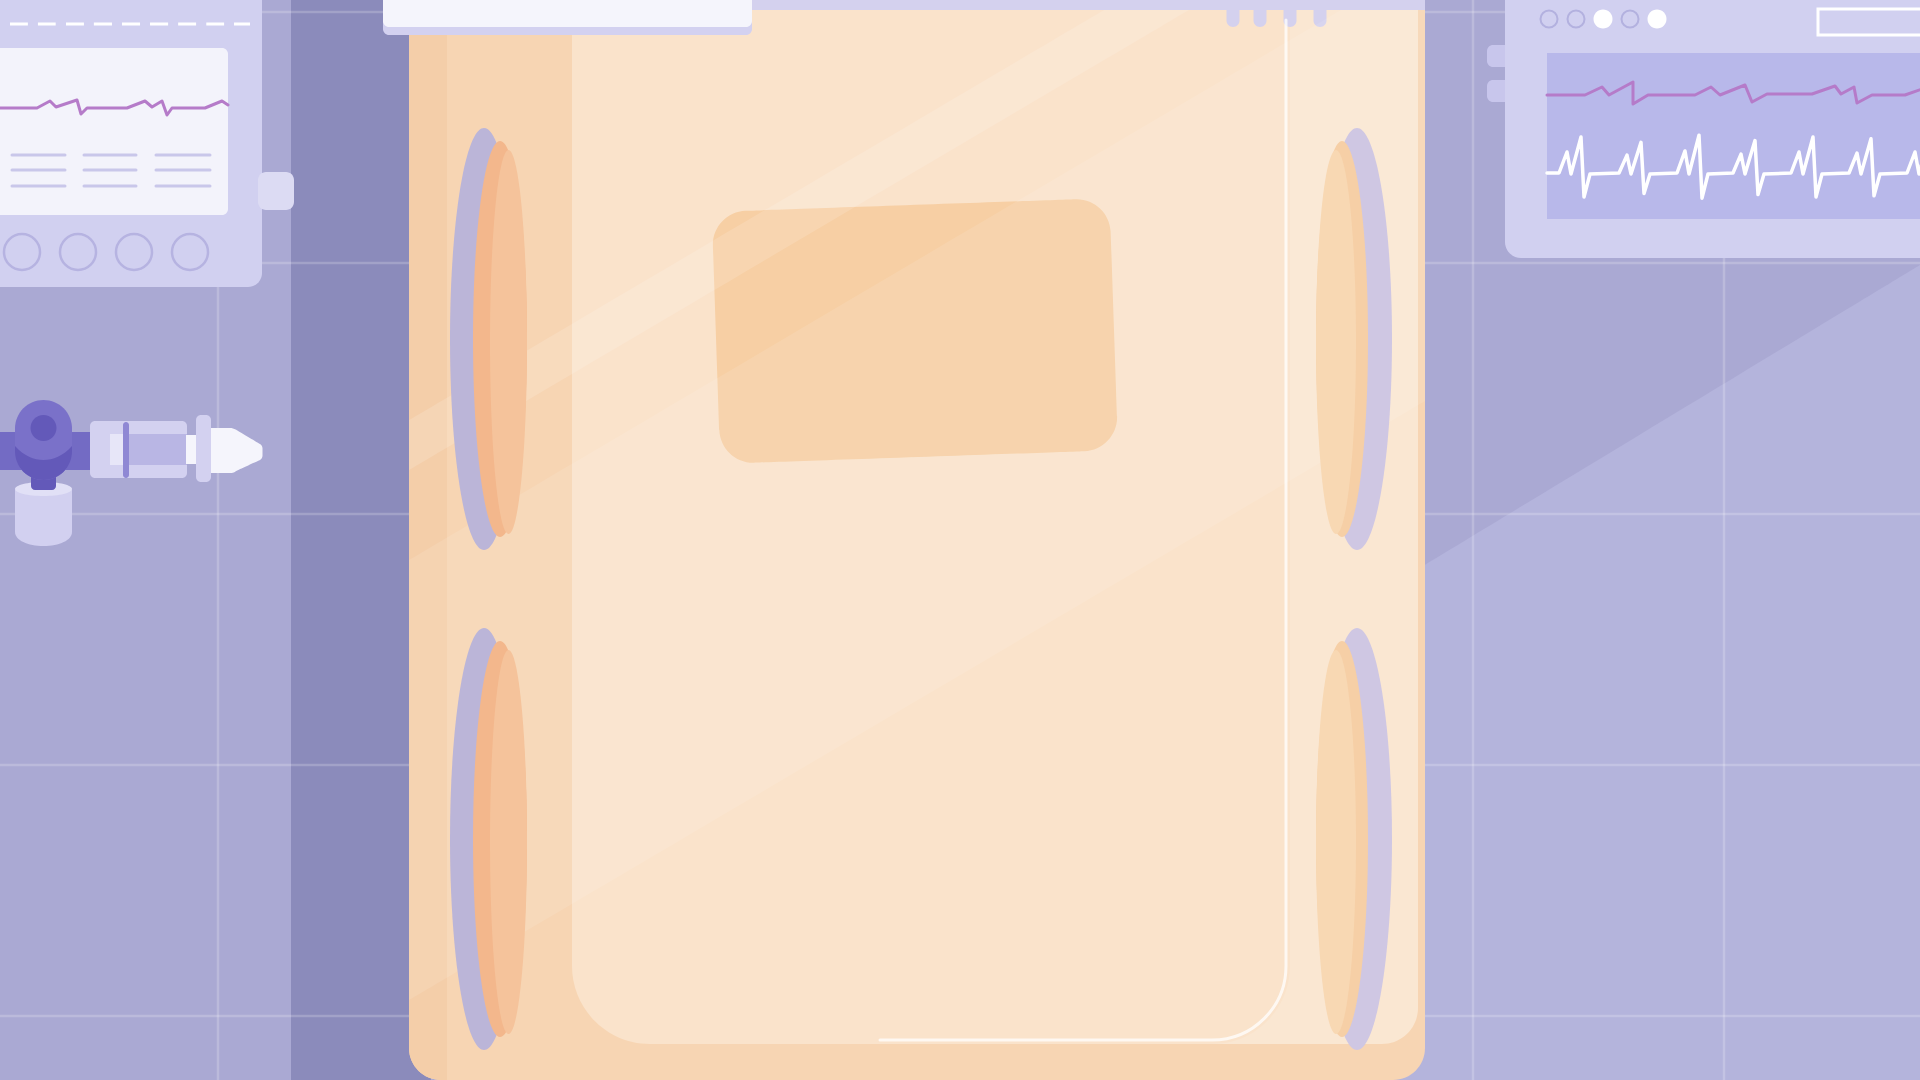
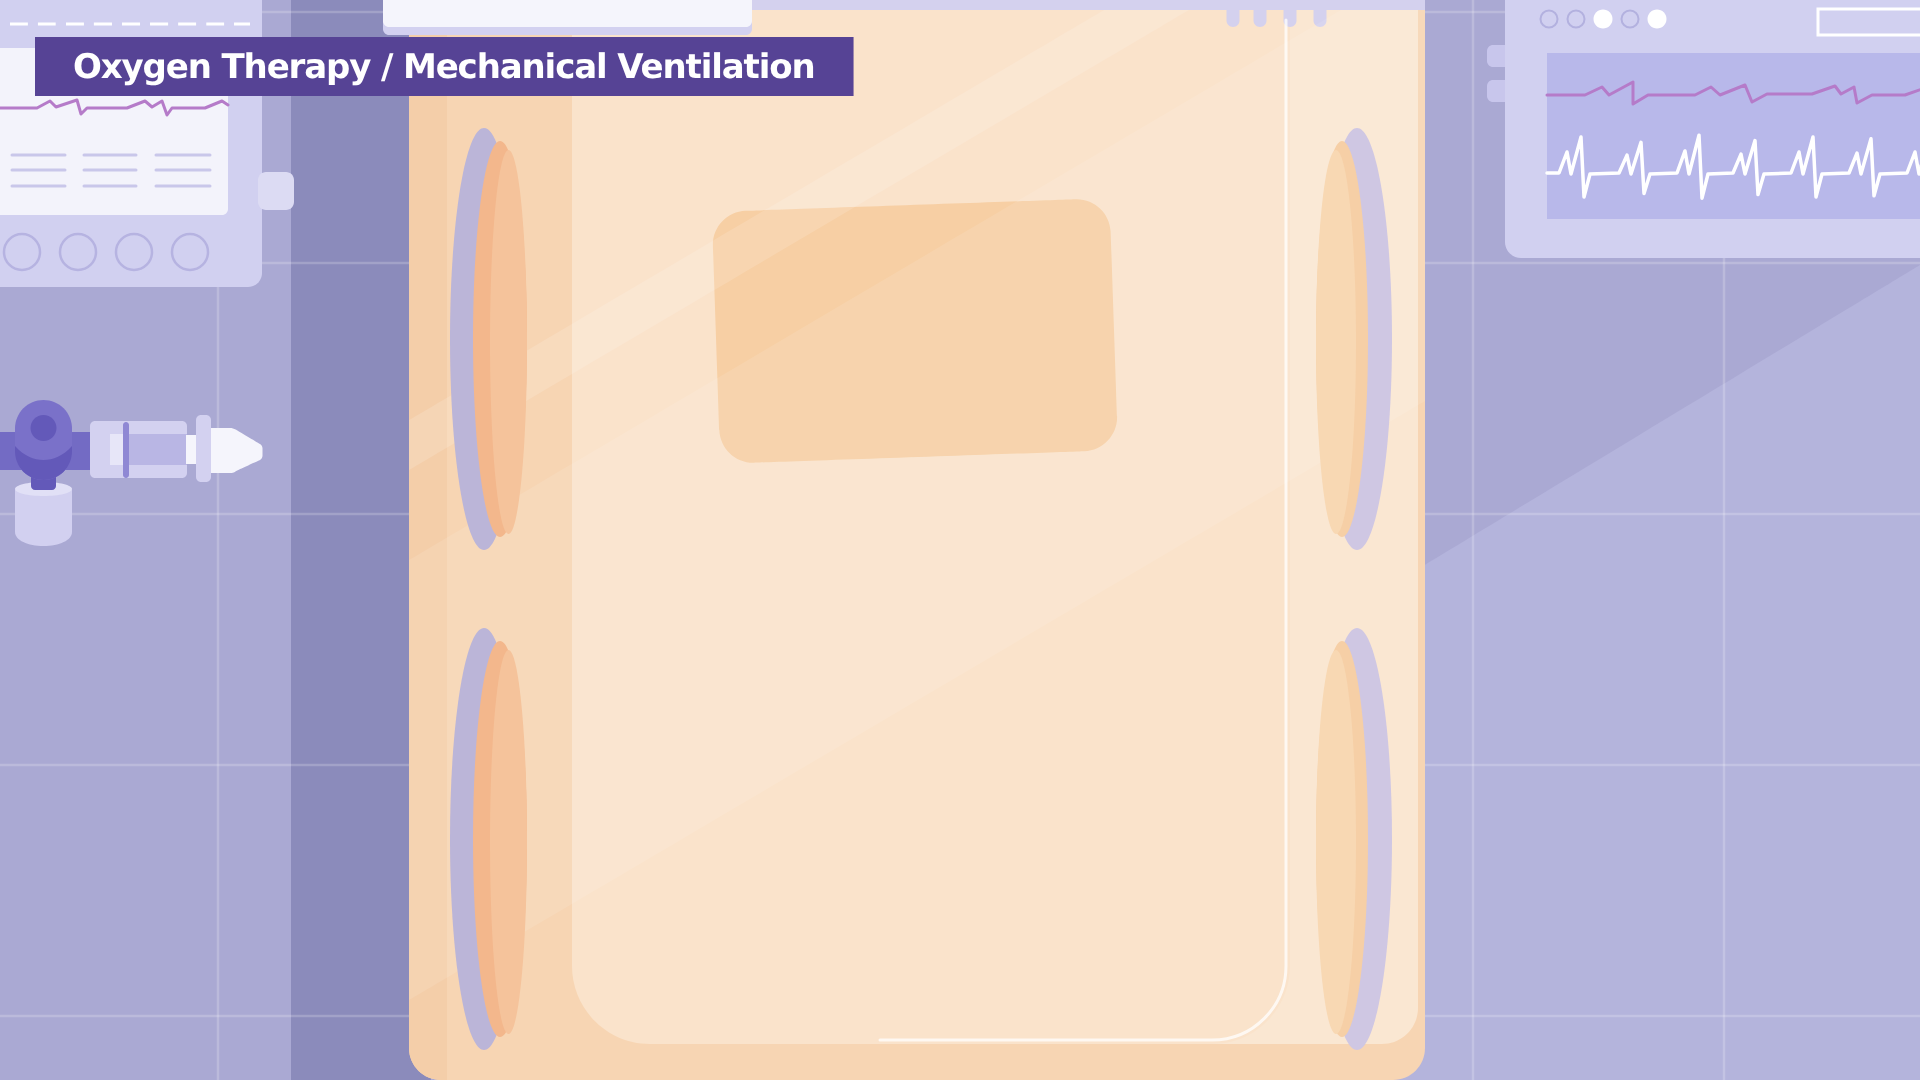
Add organs overlay (brain, lungs, intestines) and labels to NICU script
Organs are drawn as named vector paths on Organs_Overlay sublayers
(hidden by default), placed to match the close-up reference. Labels_Text
gets the title label plus three organ labels with leader lines.

Claude-Session: https://claude.ai/code/session_01LdwQkDRymi7HxytkxKrVmC

Changed region(s): [[0.0, 0.0306, 0.4688, 0.0917]]

diff --git a/nicu-illustration/NICU_Baby_Incubator.jsx b/nicu-illustration/NICU_Baby_Incubator.jsx
@@ -2,8 +2,10 @@
 //  NICU BABY IN INCUBATOR  -  flat vector illustration builder
 //  Adobe Illustrator ExtendScript   (File > Scripts > Other Script...)
 //
-//  STAGE 1 of 4 :  document + full layer stack + background + monitors
-//                  + incubator.  Layers for later stages are created empty.
+//  BUILT SO FAR :  document + full layer stack, background, monitors,
+//                  incubator (stage 1) and organs overlay + labels (stage 4).
+//  STILL TO COME :  baby (stage 2), tubes / wires / tapes (stage 3).
+//                  Their layers are already created, empty.
 //
 //  Everything is drawn from scratch as bezier paths (no tracing, no images).
 //  Design coordinates are 1920 x 1080 px, origin top-left, y pointing down;
@@ -13,7 +15,7 @@
 
 (function () {
 
-    var STAGE = 1;          // which build stage this file contains
+    var STAGES_BUILT = '1 (background, monitors, incubator) + 4 (organs, labels)';
     var W = 1920, H = 1080; // artboard size in px
 
     // ------------------------------------------------------------------------
@@ -60,7 +62,30 @@
         phInLightL:  '#F5C39B',
         phRingR:     '#CFC7E3',
         phInR:       '#F6CFA6',
-        phInLightR:  '#F8D8B3'
+        phInLightR:  '#F8D8B3',
+        // organs
+        brainGlow:   '#EE7680',
+        brainBack:   '#E9777F',
+        brainFront:  '#F28C9A',
+        brainFoldB:  '#D35E6C',
+        brainFold:   '#D2697A',
+        lungGlow:    '#EE8590',
+        lung:        '#EE8E9B',
+        lungLight:   '#F09AA6',
+        lungDark:    '#A35E7B',
+        airway:      '#F4BCC3',
+        bronchus:    '#F7CBD2',
+        bronchiole:  '#F9D9DE',
+        gutGlow:     '#EF8792',
+        colon:       '#EE8F9B',
+        colonLine:   '#DC7183',
+        smallInt:    '#E3576C',
+        smallIntFold:'#C33D55',
+        // labels
+        titleBox:    '#564395',
+        labelBox:    '#FFFFFF',
+        labelText:   '#3A3150',
+        leader:      '#FFFFFF'
     };
 
     // ------------------------------------------------------------------------
@@ -108,6 +133,12 @@
     }
     function MIRX(axisX) { return [-1, 0, 0, 1, 2 * axisX, 0]; }   // mirror left/right
     function MOVE(dx, dy) { return [1, 0, 0, 1, dx, dy]; }
+    function SCALE(k, cx, cy) { return [k, 0, 0, k, cx - k * cx, cy - k * cy]; }
+    function mul(A, B) {   // A after B
+        return [A[0] * B[0] + A[2] * B[1], A[1] * B[0] + A[3] * B[1],
+                A[0] * B[2] + A[2] * B[3], A[1] * B[2] + A[3] * B[3],
+                A[0] * B[4] + A[2] * B[5] + A[4], A[1] * B[4] + A[3] * B[5] + A[5]];
+    }
     function apply(m, x, y) { return [m[0] * x + m[2] * y + m[4], m[1] * x + m[3] * y + m[5]]; }
 
     function r2(n) { return Math.round(n * 100) / 100; }
@@ -153,6 +184,37 @@
         var s = 'M' + r2(pts[0][0]) + ' ' + r2(pts[0][1]);
         for (var i = 1; i < pts.length; i++) s += ' L' + r2(pts[i][0]) + ' ' + r2(pts[i][1]);
         return closed ? s + ' Z' : s;
+    }
+
+    // smooth curve through points (Catmull-Rom converted to cubic beziers)
+    function smooth(pts, closed) {
+        var n = pts.length, s = 'M' + r2(pts[0][0]) + ' ' + r2(pts[0][1]), i;
+        var segs = closed ? n : n - 1;
+        for (i = 0; i < segs; i++) {
+            var p0 = pts[closed ? (i - 1 + n) % n : Math.max(i - 1, 0)];
+            var p1 = pts[i], p2 = pts[(i + 1) % n];
+            var p3 = pts[closed ? (i + 2) % n : Math.min(i + 2, n - 1)];
+            s += ' C' + r2(p1[0] + (p2[0] - p0[0]) / 6) + ' ' + r2(p1[1] + (p2[1] - p0[1]) / 6) + ' ' +
+                r2(p2[0] - (p3[0] - p1[0]) / 6) + ' ' + r2(p2[1] - (p3[1] - p1[1]) / 6) + ' ' + r2(p2[0]) + ' ' + r2(p2[1]);
+        }
+        return closed ? s + ' Z' : s;
+    }
+
+    // lumpy edge (brain lobes, gut haustra): from 'from' through pts, each segment
+    // bulges outward by h * its length. Outward = correct for clockwise outlines;
+    // pass a negative h when travelling counter-clockwise.
+    function lumps(from, pts, h) {
+        var s = '', a = from, i;
+        for (i = 0; i < pts.length; i++) {
+            var b = pts[i], dx = b[0] - a[0], dy = b[1] - a[1], nx = dy * h, ny = -dx * h;
+            s += ' C' + r2(a[0] + dx * 0.15 + nx) + ' ' + r2(a[1] + dy * 0.15 + ny) + ' ' +
+                r2(b[0] - dx * 0.15 + nx) + ' ' + r2(b[1] - dy * 0.15 + ny) + ' ' + r2(b[0]) + ' ' + r2(b[1]);
+            a = b;
+        }
+        return s;
+    }
+    function cloud(pts, h) {
+        return 'M' + r2(pts[0][0]) + ' ' + r2(pts[0][1]) + lumps(pts[0], pts.slice(1).concat([pts[0]]), h) + ' Z';
     }
 
     // ------------------------------------------------------------------------
@@ -314,6 +376,15 @@
     }
     for (i = 0; i < BODY_SUBLAYERS.length; i++) BODY[BODY_SUBLAYERS[i]].zOrder(ZOrderMethod.BRINGTOFRONT);
 
+    function sublayers(parent, names) {
+        var out = {}, j;
+        for (j = 0; j < names.length; j++) { out[names[j]] = parent.layers.add(); out[names[j]].name = names[j]; }
+        for (j = 0; j < names.length; j++) out[names[j]].zOrder(ZOrderMethod.BRINGTOFRONT);
+        return out;
+    }
+    var ORG = sublayers(LY.Organs_Overlay, ['Brain', 'Lungs', 'Intestines']);
+    var LBL = sublayers(LY.Labels_Text, ['Title_Label', 'Label_Neurological', 'Label_Respiratory', 'Label_Gut']);
+
     // ========================================================================
     //  STAGE 1  -  BACKGROUND WALL + GRID
     // ========================================================================
@@ -460,6 +531,239 @@
     }
 
     // ========================================================================
+    //  STAGE 4  -  ORGANS OVERLAY  (hidden by default)
+    //  Organ shapes are authored in the coordinates of the close-up reference
+    //  (image 2) and mapped into this scene:  scene = 0.71 * closeUp + (254, 191)
+    // ========================================================================
+    var OV = [0.71, 0, 0, 0.71, 254, 191];
+
+    function organ(container, name, d, st, extra) {
+        var o = {}, k;
+        for (k in st) o[k] = st[k];
+        o.m = extra ? mul(OV, extra) : OV;
+        if (o.w) o.w = o.w * OV[0];
+        return shape(container, name, d, o);
+    }
+
+    function strokes(container, prefix, list, st) {
+        var g = group(container, prefix + 's'), j;
+        for (j = 0; j < list.length; j++) organ(g, prefix + '_' + pad2(j + 1), smooth(list[j], false), st);
+        return g;
+    }
+
+    // ---------------------------------------------------------------- brain
+    function buildBrain(L) {
+        var hull = [[905, 40], [955, 22], [1005, 25], [1040, 42], [1075, 62], [1112, 90], [1132, 130], [1133, 185], [1118, 228],
+            [1085, 262], [1040, 277], [995, 268], [955, 245], [925, 220], [890, 195], [868, 150], [866, 100], [880, 62]];
+        organ(L, 'Brain_Glow_Outer', smooth(hull, true), { f: COL.brainGlow, o: 18 }, SCALE(1.07, 1000, 150));
+        organ(L, 'Brain_Glow_Inner', smooth(hull, true), { f: COL.brainGlow, o: 28 }, SCALE(0.98, 1000, 150));
+
+        organ(L, 'Brain_Back_Hemisphere', cloud([[908, 50], [950, 33], [995, 36], [1032, 55], [1048, 110], [1020, 190],
+            [965, 228], [935, 218], [905, 188], [880, 148], [878, 98]], 0.22), { f: COL.brainBack });
+        strokes(L, 'Brain_Back_Fold', [
+            [[933, 50], [943, 57], [950, 67], [947, 74]],
+            [[910, 80], [923, 77], [937, 81]],
+            [[893, 93], [897, 107], [907, 113], [923, 110]],
+            [[880, 143], [897, 150], [913, 153]],
+            [[980, 58], [990, 47], [999, 43]],
+            [[897, 118], [900, 130], [910, 134]],
+            [[960, 46], [966, 56], [976, 60]],
+            [[886, 120], [890, 128], [889, 136]],
+            [[903, 165], [912, 170], [918, 180]],
+            [[1010, 45], [1018, 50], [1022, 58]]
+        ], { s: COL.brainFoldB, w: 2.9 });
+
+        organ(L, 'Brain_Front_Hemisphere', cloud([[985, 70], [1022, 56], [1066, 78], [1098, 100], [1117, 135], [1117, 180],
+            [1103, 220], [1075, 253], [1035, 262], [997, 250], [958, 226], [930, 197], [914, 160], [918, 118], [944, 90]], 0.2),
+            { f: COL.brainFront });
+        strokes(L, 'Brain_Fold', [
+            [[953, 97], [967, 93], [997, 92]],
+            [[972, 93], [975, 103], [973, 111]],
+            [[942, 125], [960, 120], [987, 128], [1003, 120]],
+            [[993, 93], [1007, 110], [1008, 127], [1002, 150], [997, 160]],
+            [[1027, 75], [1037, 73], [1047, 83]],
+            [[1050, 85], [1037, 97], [1023, 110], [1013, 123]],
+            [[1067, 110], [1053, 117], [1037, 127], [1027, 143], [1017, 153]],
+            [[1090, 117], [1073, 123], [1063, 137], [1050, 153], [1047, 167], [1037, 173]],
+            [[1103, 140], [1090, 143], [1083, 153], [1080, 170], [1070, 177]],
+            [[1090, 183], [1083, 180], [1067, 183], [1060, 197], [1057, 210]],
+            [[1007, 167], [1020, 170], [1037, 173], [1050, 177]],
+            [[950, 147], [963, 153], [977, 150], [990, 157], [1000, 167]],
+            [[918, 160], [937, 157], [950, 162], [960, 173]],
+            [[937, 183], [950, 183], [960, 193], [970, 183], [983, 177]],
+            [[960, 197], [977, 197], [990, 203], [997, 217]],
+            [[990, 210], [1007, 217], [1017, 227], [1023, 243]],
+            [[1023, 197], [1037, 203], [1050, 210], [1053, 223]],
+            [[1037, 227], [1050, 231], [1060, 243]],
+            [[1077, 210], [1083, 223], [1087, 237]],
+            [[977, 223], [983, 237], [993, 243]],
+            [[933, 137], [943, 137], [950, 143]],
+            [[925, 110], [935, 106], [944, 112]],
+            [[1012, 72], [1006, 82], [1010, 92]],
+            [[1080, 92], [1072, 100], [1074, 110]],
+            [[1110, 160], [1100, 166], [1097, 178]],
+            [[1105, 195], [1095, 200], [1094, 212]],
+            [[1063, 240], [1070, 247], [1072, 255]],
+            [[1012, 236], [1004, 240], [1003, 248]],
+            [[944, 205], [953, 208], [958, 218]],
+            [[1040, 140], [1030, 150], [1032, 160]],
+            [[1060, 160], [1068, 165], [1066, 175]]
+        ], { s: COL.brainFold, w: 2.9 });
+    }
+
+    // ---------------------------------------------------------------- lungs
+    var LUNG_L = 'M912 401 C926 399 938 402 940 414 C942 450 941 500 941 538 C941 547 935 552 926 551 ' +
+        'C905 549 885 550 872 552 C864 553 859 546 860 536 C860 495 866 452 884 424 C891 412 900 403 912 401 Z';
+
+    function lung(L, side, shade) {
+        var P = 'Lung_' + side, g = group(L, P), mir = (side === 'R') ? MIRX(953) : null, j;
+        function M(m) { return mir ? (m ? mul(mir, m) : mir) : m; }
+        organ(g, P + '_Glow', LUNG_L, { f: COL.lungGlow, o: 22 }, M(SCALE(1.09, 901, 477)));
+        organ(g, P + '_Fill', LUNG_L, { f: COL.lung }, M(null));
+        organ(g, P + '_Inner_Light', LUNG_L, { f: COL.lungLight }, M(SCALE(0.86, 903, 479)));
+        var dg = group(g, P + '_Bronchial_Shading');
+        for (j = 0; j < shade.length; j++)
+            organ(dg, P + '_Shade_' + pad2(j + 1), shade[j][0], { s: COL.lungDark, w: shade[j][1], o: 80 }, M(null));
+        var b = group(g, P + '_Bronchi');
+        var branches = [
+            'M926 466 C919 458 913 448 910 436 C908 428 907 420 906 412',
+            'M912 452 C905 446 899 440 896 430',
+            'M919 468 C908 467 896 466 884 470',
+            'M912 488 C903 494 893 497 880 500',
+            'M911 505 C900 512 890 516 875 524',
+            'M912 495 C918 502 922 512 924 528',
+            'M910 520 C905 530 898 538 892 545'
+        ];
+        for (j = 0; j < branches.length; j++) organ(b, P + '_Bronchus_' + pad2(j + 1), branches[j], { s: COL.bronchus, w: 2.6 }, M(null));
+        var twigs = [
+            'M906 425 C900 419 897 414 894 410', 'M908 430 C914 424 918 418 920 410', 'M896 432 C889 430 882 432 876 436',
+            'M884 470 C877 466 872 464 866 466', 'M880 500 C874 504 869 510 866 518', 'M875 524 C870 530 868 538 867 545',
+            'M924 528 C928 535 930 542 933 547', 'M893 481 C886 484 878 486 870 486', 'M918 480 C925 482 930 488 934 496',
+            'M902 455 C895 456 888 452 882 446', 'M896 430 C894 422 895 415 899 408', 'M884 470 C880 476 874 480 868 480',
+            'M890 498 C888 506 884 512 878 515', 'M901 512 C901 522 898 530 896 538', 'M911 470 C924 474 932 470 937 462',
+            'M924 512 C930 512 935 516 937 522', 'M918 440 C924 438 930 432 934 424'
+        ];
+        for (j = 0; j < twigs.length; j++) organ(b, P + '_Bronchiole_' + pad2(j + 1), twigs[j], { s: COL.bronchiole, w: 1.4 }, M(null));
+        return g;
+    }
+
+    function buildLungs(L) {
+        // shading = [path, width]; drawn under the light bronchi
+        lung(L, 'L', [
+            ['M912 492 C911 506 910 520 909 534', 11],
+            ['M912 490 C903 495 892 498 876 500', 9],
+            ['M911 506 C900 512 890 517 876 523', 8],
+            ['M905 500 C900 508 897 516 892 524', 7],
+            ['M918 462 C912 458 908 452 906 444', 7],
+            ['M909 434 C908 426 907 420 906 414', 5],
+            ['M913 497 C918 504 921 512 922 522', 5],
+            ['M882 485 C880 486 878 486 876 486', 6]
+        ]);
+        // right lung = mirrored left lung with its own shading (given on the left side, then mirrored)
+        lung(L, 'R', [
+            ['M926 466 C918 458 913 448 910 436 C908 428 907 420 906 414', 10],
+            ['M912 452 C905 446 899 440 897 432', 7],
+            ['M918 484 C910 484 898 484 888 486', 6],
+            ['M912 492 C911 506 910 520 909 532', 6],
+            ['M912 520 C907 526 904 530 903 534', 6],
+            ['M930 488 C932 490 933 492 933 494', 6],
+            ['M879 531 C878 532 877 532 876 532', 7]
+        ]);
+        var a = group(L, 'Airway');
+        organ(a, 'Trachea', 'M953 378 L953 449', { s: COL.airway, w: 8 });
+        organ(a, 'Main_Bronchus_L', 'M953 447 C947 456 934 462 926 466 C919 470 914 478 912 490 L910 538', { s: COL.airway, w: 5 });
+        organ(a, 'Main_Bronchus_R', 'M953 447 C947 456 934 462 926 466 C919 470 914 478 912 490 L910 538', { s: COL.airway, w: 5 }, MIRX(953));
+    }
+
+    // ---------------------------------------------------------------- intestines
+    function buildIntestines(L) {
+        var glow = [[872, 609], [960, 605], [1042, 611], [1045, 680], [1043, 740], [1022, 752], [992, 752], [982, 790], [962, 808],
+            [943, 802], [937, 762], [918, 770], [899, 767], [867, 744], [865, 670]];
+        organ(L, 'Gut_Glow_Outer', smooth(glow, true), { f: COL.gutGlow, o: 16 }, SCALE(1.05, 955, 700));
+        organ(L, 'Gut_Glow_Inner', smooth(glow, true), { f: COL.gutGlow, o: 24 }, SCALE(0.99, 955, 700));
+
+        // large intestine: ascending (left), transverse (top), descending (right),
+        // sigmoid along the bottom and rectum down the middle
+        var colon = 'M907 760 C903 760 898 755 893 750 C888 745 881 738 877 730' +
+            lumps([877, 730], [[873, 716], [872, 701], [873, 686], [872, 671], [873, 656], [875, 641], [882, 628], [896, 620]], 0.5) +
+            lumps([896, 620], [[913, 618], [930, 619], [947, 618], [964, 619], [981, 618], [998, 619], [1015, 619], [1027, 624]], 0.4) +
+            lumps([1027, 624], [[1032, 638], [1032, 654], [1033, 670], [1032, 686], [1033, 702], [1032, 718], [1028, 732], [1018, 740]], 0.5) +
+            lumps([1018, 740], [[1002, 742], [986, 741]], 0.4) +
+            lumps([986, 741], [[978, 752], [974, 766], [970, 780], [964, 791]], 0.45) +
+            ' C961 797 954 799 951 794' +
+            lumps([951, 794], [[948, 781], [946, 767], [945, 753], [945, 742]], 0.45) +
+            ' L945 728 L912 728 C907 734 908 748 909 754 C909 757 908 759 907 760 Z';
+        organ(L, 'Colon_Large_Intestine', colon, { f: COL.colon });
+
+        organ(L, 'Small_Intestine', cloud([[906, 656], [921, 651], [936, 654], [951, 651], [966, 654], [981, 651], [1000, 654],
+            [1002, 672], [1001, 690], [998, 706], [975, 712], [950, 716], [946, 730], [932, 738], [915, 736], [906, 724],
+            [905, 706], [905, 688], [905, 671]], 0.2), { f: COL.smallInt });
+        strokes(L, 'Small_Intestine_Fold', [
+            [[909, 660], [911, 672], [917, 678], [922, 668]],
+            [[946, 659], [956, 667], [961, 680], [957, 690]],
+            [[968, 657], [977, 665], [980, 679]],
+            [[986, 659], [987, 668], [994, 670]],
+            [[908, 697], [925, 690], [942, 693], [958, 697], [974, 694], [996, 688]],
+            [[922, 706], [935, 711], [945, 705], [952, 712], [968, 712]],
+            [[908, 717], [920, 721], [934, 720]],
+            [[932, 662], [928, 676], [934, 684]]
+        ], { s: COL.smallIntFold, w: 2.6 });
+
+        // sigmoid loop crosses in front of the small intestine
+        organ(L, 'Colon_Sigmoid', 'M1018 748 L1016 696' + lumps([1016, 696], [[998, 707], [978, 708], [960, 709]], -0.15) +
+            ' C951 709 945 716 944 726 L943 748 Z', { f: COL.colon });
+        organ(L, 'Colon_Taenia_Line', smooth([[904, 750], [896, 737], [894, 702], [894, 652], [900, 637], [950, 635], [1005, 635],
+            [1014, 643], [1015, 690], [1014, 716], [1007, 725], [985, 727], [967, 729], [959, 738], [958, 772]], false),
+            { s: COL.colonLine, w: 2 });
+    }
+
+    // ========================================================================
+    //  STAGE 4  -  LABELS
+    // ========================================================================
+    function findFont(names) {
+        for (var j = 0; j < names.length; j++) {
+            try { return app.textFonts.getByName(names[j]); } catch (e) {}
+        }
+        return null;   // falls back to Illustrator's default font
+    }
+    var FONT = findFont(['Gilroy-SemiBold', 'Montserrat-SemiBold', 'Nunito-Bold', 'Quicksand-Bold',
+        'Poppins-Medium', 'ArialRoundedMTBold', 'Arial-BoldMT']);
+
+    // white/purple box sized to its text. opt: x (left edge, or right edge if opt.right), y (top), h, pad, size, text, fill
+    function boxLabel(container, prefix, str, opt) {
+        var t = container.textFrames.add();
+        t.contents = str;
+        t.name = prefix + '_Text';
+        var ca = t.textRange.characterAttributes;
+        ca.size = opt.size;
+        ca.fillColor = rgb(opt.text);
+        if (FONT) ca.textFont = FONT;
+        var w = t.width + 2 * opt.pad, left = opt.right ? opt.x - w : opt.x;
+        shape(container, prefix + '_Box', rect(left, opt.y, w, opt.h), { f: opt.fill });
+        t.position = [X(left + opt.pad), Y(opt.y + (opt.h - t.height) / 2)];
+        t.zOrder(ZOrderMethod.BRINGTOFRONT);
+        return t;
+    }
+
+    function buildLabels() {
+        boxLabel(LBL.Title_Label, 'Title', 'Oxygen Therapy / Mechanical Ventilation',
+            { x: 35, y: 37, h: 59, pad: 38, size: 34, text: COL.white, fill: COL.titleBox });
+
+        var lw = { s: COL.leader, w: 2.5 };
+        shape(LBL.Label_Neurological, 'Neuro_Leader', poly([[1096, 299], [1031, 312]]), lw);
+        boxLabel(LBL.Label_Neurological, 'Neuro', 'Neurological Issues',
+            { x: 1095, y: 261, h: 43, pad: 26, size: 26, text: COL.labelText, fill: COL.labelBox });
+
+        shape(LBL.Label_Respiratory, 'Respiratory_Leader', poly([[1096, 592], [966, 552]]), lw);
+        boxLabel(LBL.Label_Respiratory, 'Respiratory', 'Respiratory Issues',
+            { x: 1095, y: 591, h: 42, pad: 26, size: 26, text: COL.labelText, fill: COL.labelBox });
+
+        shape(LBL.Label_Gut, 'Gut_Leader', poly([[716, 629], [875, 655]]), lw);
+        boxLabel(LBL.Label_Gut, 'Gut', 'Gut Issues',
+            { x: 717, y: 591, h: 42, pad: 26, size: 26, text: COL.labelText, fill: COL.labelBox, right: true });
+    }
+
+    // ========================================================================
     //  BUILD
     // ========================================================================
     buildBackground(LY.BG_Wall_Grid);
@@ -469,12 +773,23 @@
     buildIncubatorGlass(LY.Incubator_Glass);
     buildPortholes(LY.Incubator_Portholes);
 
-    // later stages: baby (2), tubes/wires + tapes (3), organs overlay + labels (4)
+    buildBrain(ORG.Brain);
+    buildLungs(ORG.Lungs);
+    buildIntestines(ORG.Intestines);
+    buildLabels();
 
-    LY.Organs_Overlay.visible = false;   // hidden by default (set after drawing)
+    // still to come: baby (stage 2), tubes / wires + tapes (stage 3)
+
+    // hidden by default (layers must be visible while drawing into them)
+    LY.Organs_Overlay.visible = false;
+    LBL.Label_Neurological.visible = false;
+    LBL.Label_Respiratory.visible = false;
+    LBL.Label_Gut.visible = false;
 
     try { doc.selection = null; } catch (e2) {}
     try { app.redraw(); } catch (e3) {}
-    alert('NICU illustration - stage ' + STAGE + ' built.\n' + LAYER_ORDER.length + ' layers created.');
+    alert('NICU illustration built: stages ' + STAGES_BUILT + '.\n' +
+        'Organs_Overlay and the three organ labels are hidden - turn them on in the Layers panel.' +
+        (FONT ? '' : '\nLabel font not found - default font used.'));
 
 })();
